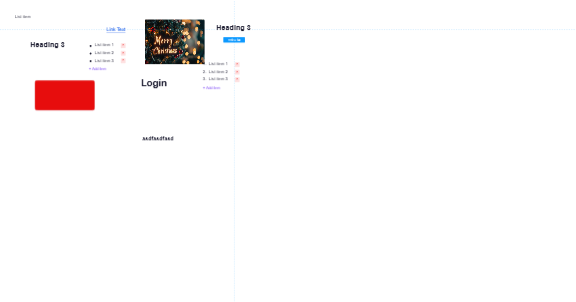
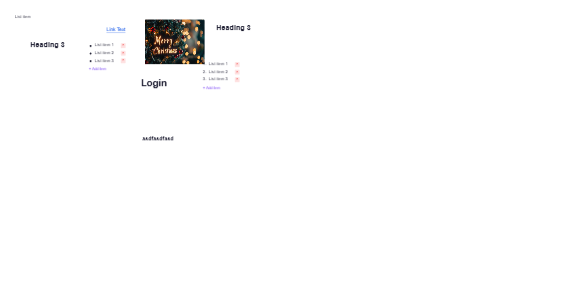
qweq

Changed region(s): [[0.0312, 0.2384, 0.1875, 0.3874], [0.375, 0.1192, 0.4375, 0.149]]

diff --git a/src/pages/login/login.board.tsx b/src/pages/login/login.board.tsx
@@ -4,7 +4,6 @@ import './login.css';
 const Login = () => {
   return (
     <div className="page-container">
-      <div className="el-409111846a38"></div>
       <h1 className="el-89bbd7e04198">Login</h1>
       <a href="#" className="el-555f601c4222">Link Text</a>
       <img src="src/assets/images/neon-merry-christmas-sign-on-a-christmas-tree-free-photo.jpg" alt="neon-merry-christmas-sign-on-a-christmas-tree-free-photo.jpg" className="el-efd6a2b7db78" />

diff --git a/src/pages/login/login.css b/src/pages/login/login.css
@@ -91,18 +91,6 @@ a {
   box-sizing: border-box;
 }
 
-.el-409111846a38 {
-  position: absolute;
-  left: 116px;
-  top: 267px;
-  width: 200px;
-  height: 100px;
-  background-color: #e70d0d;
-  border: 1px solid #e5e7eb;
-  border-radius: 8px;
-  margin: 0px 0px 0px 0px;
-}
-
 .el-89bbd7e04198 {
   position: absolute;
   left: 469px;
